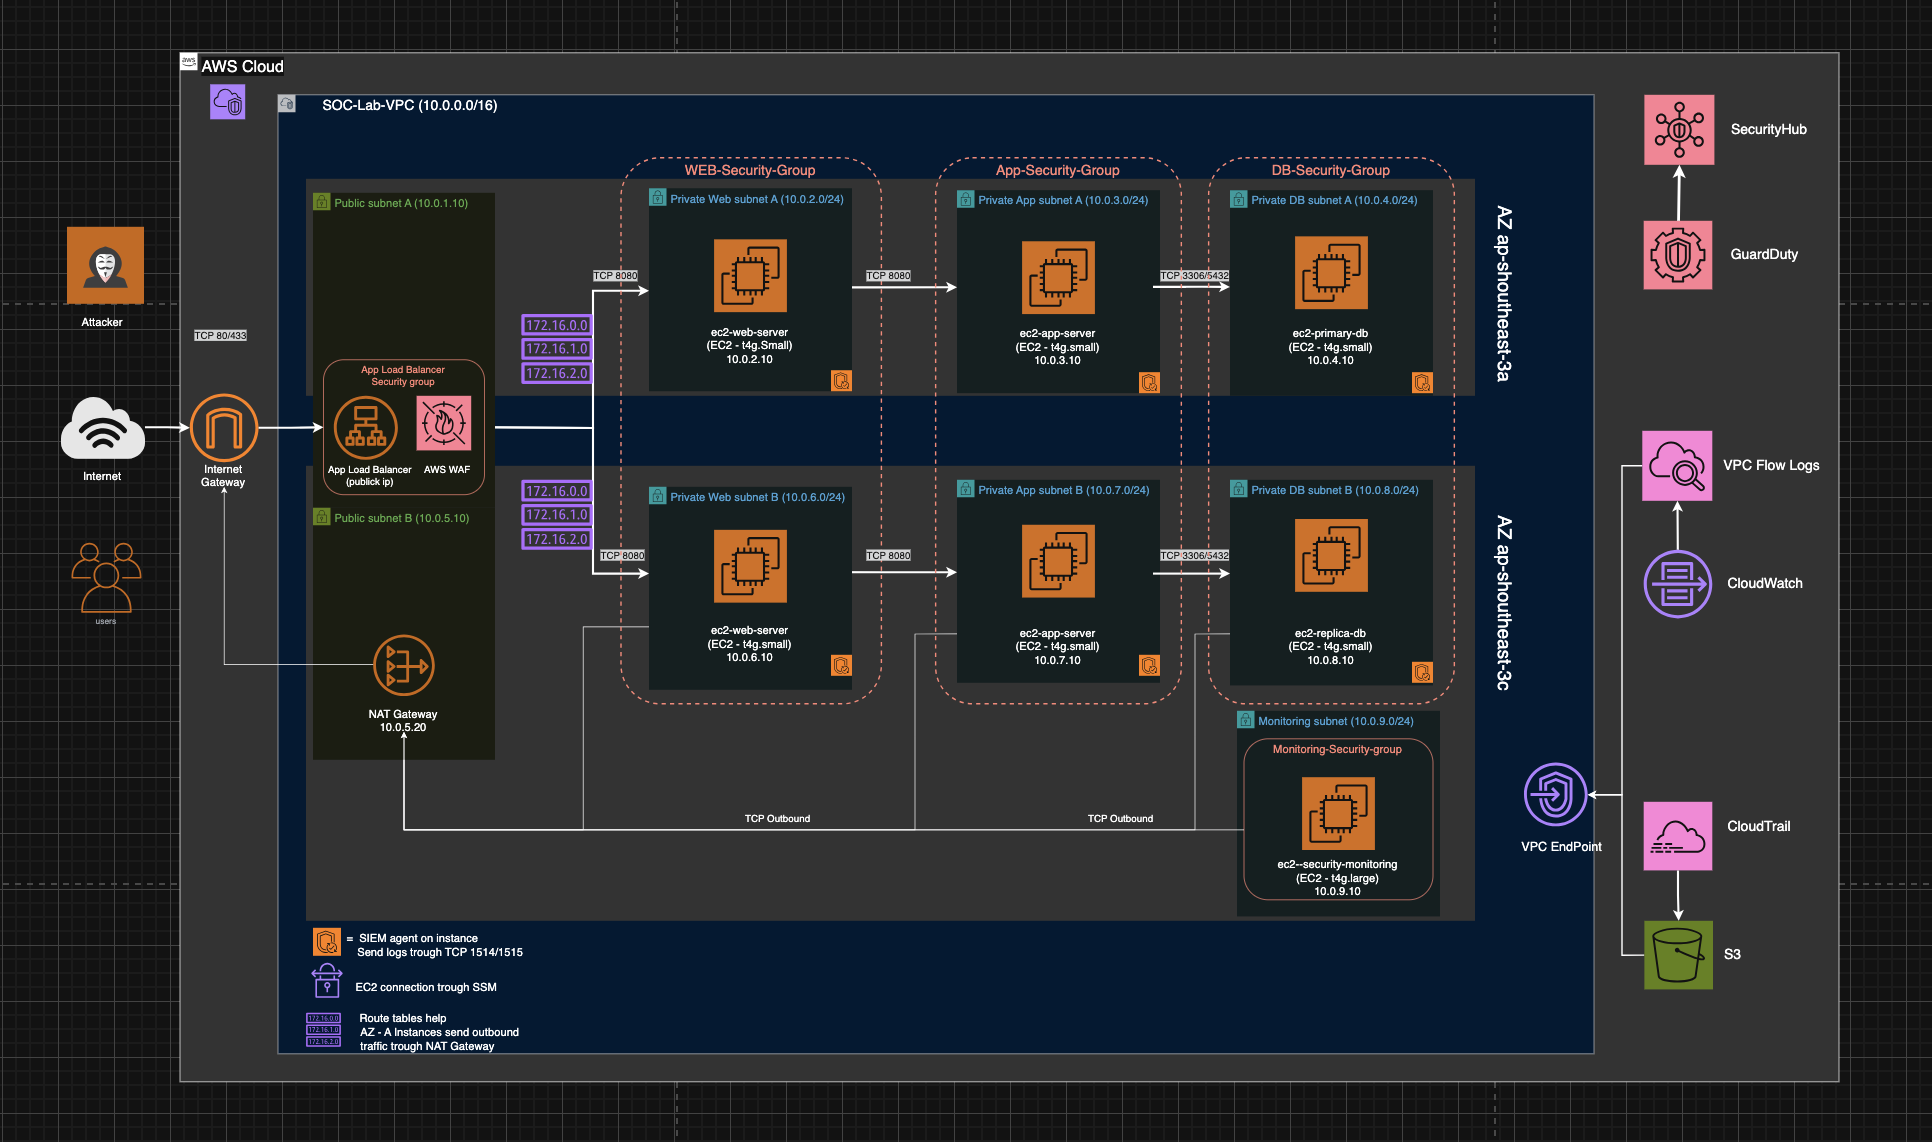
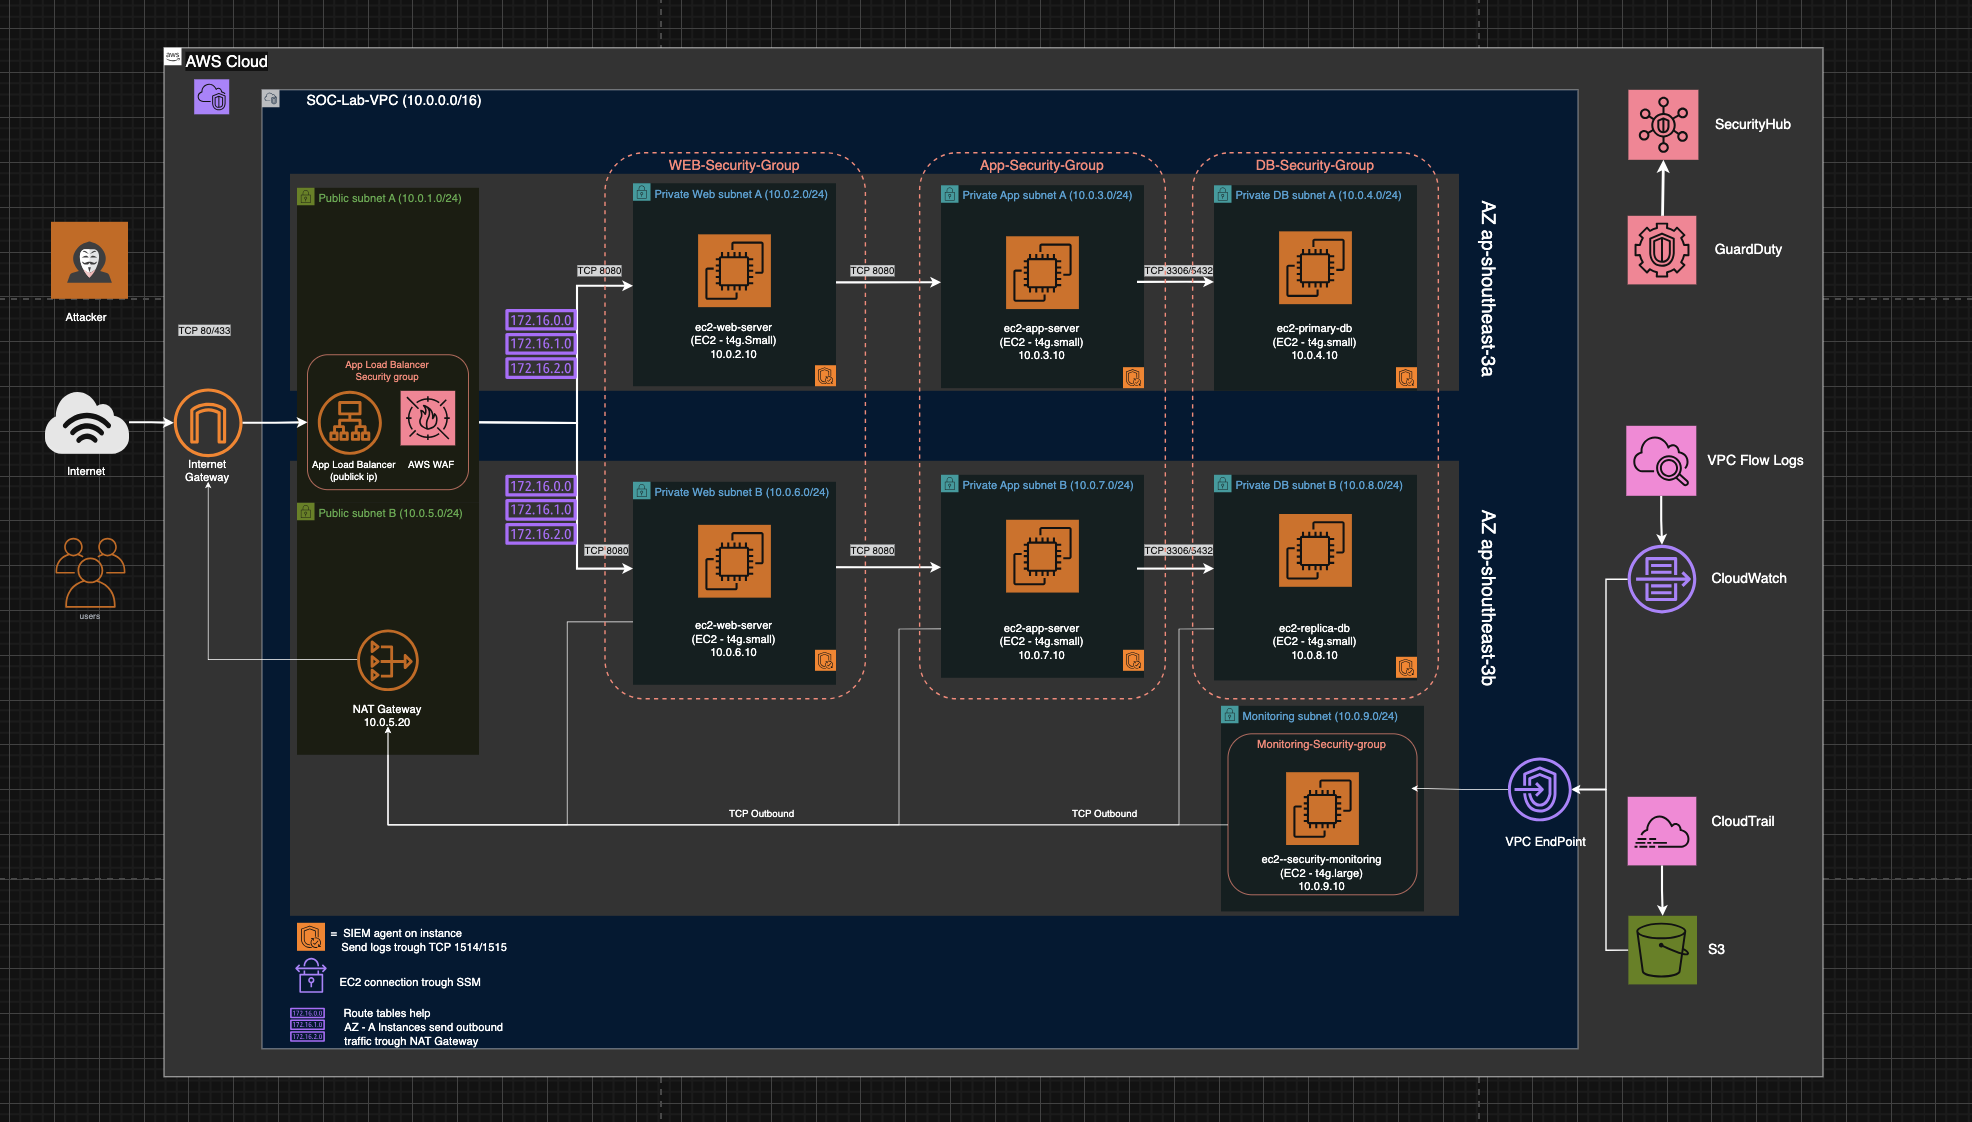
compelete phase 1 vpc design

diff --git a/phases/phase-1-foundation/04-vpc-design.md b/phases/phase-1-foundation/04-vpc-design.md
@@ -1,109 +1,95 @@
-<!-- >Restrict bastion SG to your IP only"Bastion for lab access; in production, I'd use SSM to eliminate public SSH."
-> "Designed for multi-AZ; implemented single AZ to save costs/time."
->App → DB (e.g., 3306/5432) — ensure SG allows only from app SG -->
-
-## VPC Design
+## VPC Design and Network Segmentation
 
 ![vpc-design-diagram.png](../../assets/diagrams/vpc-design.png)
+_Figure 1: Overall architecture showing tiered segmentation, multi-AZ layout, ALB entry point, NAT outbound, and isolated monitoring subnet_
 
-**Objectives: VPC custom and it's component with proper network segmentation, capable to simulate both SOC and NOC operation.**
+---
 
-VPC and feature design spesification:
+#### Objectives
 
+Deploy a custom VPC with proper multi-AZ network segmentation to simulate secure production-like NOC (availability, monitoring) and SOC (detection, isolation, logging) operations.
+
+#### Key Design Principles
+
+- Multi-AZ resilience across `ap-southeast-3a` and `ap-southeast-3b`.
+- Strict tiered isolation: Public > Private Web > Private App > Private DB > Monitoring.
+- Least-privilege access via reference-based security groups.
+- Outbound-only internet for private subnets via NAT Gateway.
+- Centralized monitoring in a dedicated subnet for SIEM.
+
+#### VPC Fundation
+
+- Tag Name : SOC-Lab-VPC.
+- IPv4 CIDR : 10.0.0.0/16.
 - Region: Asia Pasific (Jakarta).
-
-- Availiability Zone: `ap-southeast-3a`, `ap-southeast-3c`
-
-  > VPC is Designed for multi-AZ, implemented single AZ to save costs/time.
-
-- VPC
-  - Tag Name : SOC-Lab-VPC.
-  - IPv4 CIDR : 10.0.0.0/16.
-  - AZ : ap-southeast-3a.
-
-- Public Subnet
-  - Tag Name : public-subnet.
-  - CIDR : 10.0.1.0/24.
-
-- Private Web/App Subnet
-  - Tag Name : private-web/app-subnet.
-  - CIDR : 10.0.2.0/24.
-
-- Private Database Subnet
-  - Tag Name : private-db-subnet.
-  - CIDR : 10.0.3.0/24.
-
-- Private Monitoring Subnet
-  - Tag Name : monitoring-subnet.
-  - CIDR : 10.0.4.0/24.
-
+- Availiability Zone: `ap-southeast-3a`, `ap-southeast-3b`.
 - Internet Gateway
-  - Tag name : soc-lab-igw.
+- NAT Gateway:
+  - Public IP = - ElasticIP
+  - Private IP = 10.0.5.20
+  - Subnet = public-subnet-b
+    > Single NAT in AZ-b chosen for cost optimization in lab (~$32/mo savings vs. dual). In production, Regional AZ provides automatic multi-AZ high availability without requiring you to manage multiple NATs or route tables. Cost scales with active AZs (~equivalent to 2 zonal NATs in this design).
 
-- NAT Gateway
-  - Tag name : southeast-3a-nat-gateway.
-  - Public IP : ##.##.###.#82
-  - Private IP : 10.0.1.20.
-  - Subnet : public-subnet.
+#### Subnet Layout & Tiering
 
-- Application Load Balancer
-  - Name : app-load-balancer.
-  - Public IP : ##.###.##.12.
-  - Private IP: 10.0.1.10.
-  - Scheme : Internet-facing.
-  - Ip Type : IPv4.
-  - Subnet : public-subnet.
-  - Security Group : app-load-balancer-sg.
-  - listener : HTTPS/443 (forward), HTTP/80 (redirect to URL).
-  - Target-Group: soc-lab-internal-services.
-- Web/App Server
-  - Tag Name : ec2-web/app-server.
-  - IPv4 Address : 10.0.2.135.
-  - AMI : Ubuntu server 22.04 LTS(HVM).
-  - Architecture : 64-bit(ARM)
-  - Instance Type : t4g.micro, 2vCPU, 1GB memory.
-  - Key Pair : RSA, .pem.
-  - Storage : 1 volum(s) - 8GiB
-  - Delete on Termination: enabled.
-  - Security Group : web-app-server-sg.
+To provide confidentiality and availability, I've segmented my VPC by creating:
 
-- Databse Server
-  - Tag Name : ec2-web/app-server-ubuntu22.04.
-  - IPv4 Address : 10.0.2.135.
-  - AMI : Ubuntu server 22.04 LTS(HVM).
-  - Architecture : 64-bit(ARM)
-  - Instance Type : t4g.micro, 2vCPU, 1GB memory.
-  - Key Pair : RSA, .pem.
-  - Storage : 1 volum(s) - 8GiB
-  - Delete on Termination: enabled.
-  - Security Group : web-app-server-sg.
+- 2 Availability Zone - Spread the resources and subnet across Availability Zones. Prevent single of failure.
+- Public subnets - Internet-facing subnet (ALB and NAT) and first defence AWS WAF.
+- 3-tier of private subnets - Web, App, and Database, this provides defence in-depth by segmenting each layer.
+- Monitoring the subnet for central logs collection and security monitoring.
 
-- Monitoring Instance
-  - Tag Name : ec2-web/app-server-ubuntu22.04.
-  - IPv4 Address : 10.0.2.135.
-  - AMI : Ubuntu server 22.04 LTS(HVM).
-  - Architecture : 64-bit(ARM)
-  - Instance Type : t4g.micro, 2vCPU, 1GB memory.
-  - Key Pair : RSA, .pem.
-  - Storage : 1 volum(s) - 8GiB
-  - Delete on Termination: enabled.
-  - Security Group : web-app-server-sg.
+  ![subnets-list](../../assets/screenshot/phase-1/subnets.png)
+  _Figure 2: Console view of subnets with AZ spread and route table associations_
 
-- Security Group
-  - app-load-balancer-sg :
-    - inbound rules: source: 0.0.0.0/0 ~ http/80,https/443,.
-    - outbound rules : dest: 0.0.0.0/0
-  - web-app-server-sg :
-    - inbound rules: source: app-load-balancer-sg, tcp/8080.
-    - outbound rules : dest: 0.0.0.0 ~ any.
-  - database-sg:
-    - inbound rules: source: web-app-server-sg, tcp/3306.
-    - outbound rules : dest: 0.0.0.0 ~ any.
-  - wazuh-ec2-sg
-    - inbound rules: source: web-app-server-sg, tcp/1514,tcp1515.
-    - inbound rules: source: wazuh-ec2-sg, tcp/1514,tcp1515.
-    - outbound rules : dest: 0.0.0.0 ~ any.
+#### Routing & Traffic Flow
 
-- Routing Table
+- Public route table → IGW
+- Private route tables → NAT
+- No direct internet from private subnets
 
-expected service cost:
+  ![soc-lab-private-rt](../../assets/screenshot/phase-1/soc-lab-private-rt.png)
+  _Figure 3: Private subnet route table pointing to NAT Gateway_
+
+#### Security Groups – Network Segmentation Rules
+
+| Tag Name             | Inbound Rules                                              | Outbound Rules   |
+| -------------------- | ---------------------------------------------------------- | ---------------- |
+| sg-app-load-balancer | source: 0.0.0.0/0                                          | dest: 0.0.0.0/0  |
+|                      | protocol/port: HTTP/80; HTTPS/443                          | protocol/port: ~ |
+| sg-web-servers       | source: `sg-app-load-balancer`                             |
+|                      | protocol/port: TCP/8080                                    | protocol/port: ~ |
+| sg-app-servers       | source: `sg-web-servers`                                   | dest: 0.0.0.0/0  |
+|                      | protocol/port: TCP/8080                                    | protocol/port: ~ |
+| sg-database          | source: `sg-app-servers`                                   | dest: 0.0.0.0/0  |
+|                      | protocol/port: TCP(3306/5432)                              | protocol/port: ~ |
+| sg-monitoring        | source: `sg-web-servers`; `sg-app-servers`; `sg-database`; | dest: 0.0.0.0/0  |
+|                      | protocol/port: TCP/UDP(1514); TCP/1515;                    | protocol/port: ~ |
+
+> Future plan to implementing NACL for network-level restrictions.
+
+![sg-app-load-balancer](../../assets/screenshot/phase-1/sg-app-load-balancer.png)
+_Figure 4: Example of reference-based rule (source = sg-app-load-balancer)_
+
+#### Additional Network Controls
+
+- VPC Flow Logs enabled (flow logs > cloudwatch > EC2 monitoring)
+- AWS WAF on ALB
+- SSM Session Manager for main access
+- Open SSH on the monitoring instance (for demo purposes only)
+- VPC Endpoints for S3 / CloudWatch / GuardDuty
+
+#### Cost & Trade-off Summary
+
+- Single NAT Gateway: ~$32/mo savings vs dual
+- Graviton instances: ~20–40% cheaper
+- Monitoring instance oversized for demo
+- Mitigation: stop/start instances + Budgets alarms
+
+---
+
+#### Lessons Learned & Future Improvements
+
+- Single NAT chosen for budget (next step: regional AZ NAT).
+- Planned to implement NACLs for subnet-level deny rules in production
+- Migrate to the regional NAT Gateway when the feature matures in ap-southeast-3
